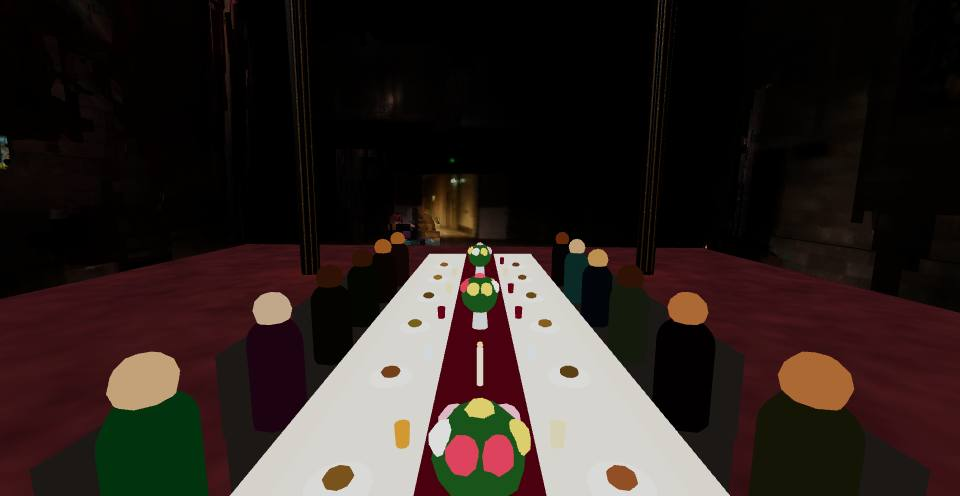
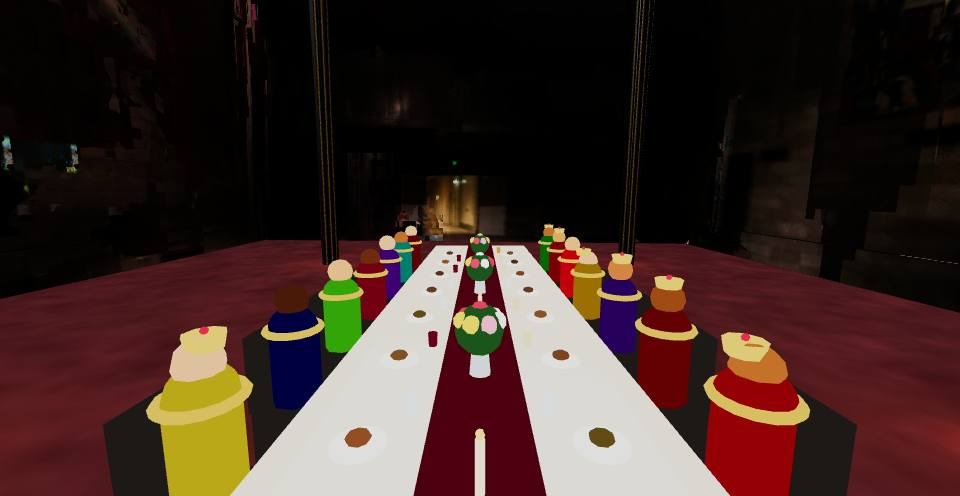
The banquet, alive (Lloyd's note, V2): a modern royal banquet, every guest in a jewel-toned gown with a gold collar and a crown on a third of them; everyone eating (the head dips to the plate and back) or chatting (leaning to a neighbour, swaying with the talk), swapping every few seconds; four wait
Claude-Session: https://claude.ai/code/session_01JupC9g6UHnowKAwqZM7atT

diff --git a/index.html b/index.html
@@ -1861,7 +1861,7 @@ function eventClearOfColumns(u,d){ return EVENT.cols.every(c=>Math.hypot(u-c[0],
 function eventPoint(u,y,d){ return EVENT.N.origin.clone().addScaledVector(EVENT.N.u,u).addScaledVector(EVENT.N.inRoom,d).setY(y); }
 function buildEvent(){
  fabSync();
- if(eventGroup){scene.remove(eventGroup); eventGroup=null;} if(confetti){scene.remove(confetti); confetti=null; confettiMat=null;} crowd=null; eventAnim=null; dinner=null; wedding=null; party=null; wheelchairs=[]; eventLitMats=[]; speaker=null; clearFx();
+ if(eventGroup){scene.remove(eventGroup); eventGroup=null;} if(confetti){scene.remove(confetti); confetti=null; confettiMat=null;} crowd=null; eventAnim=null; dinner=null; banquet=null; wedding=null; party=null; wheelchairs=[]; eventLitMats=[]; speaker=null; clearFx();
  if(!document.getElementById('event').checked){restoreEventLED(); sceneDirty=true; return;}
  eventGroup=new THREE.Group(); const y0=FLOOR_Y||EVENT.N.origin.y, uMid=EVENT.wallLen/2;
  const basis=new THREE.Matrix4().makeBasis(EVENT.N.u.clone(),new THREE.Vector3(0,1,0),EVENT.N.inRoom.clone().negate());
@@ -2105,7 +2105,7 @@ function updateWheelchairs(dt){
 // corridors between them, and every mover walks lane-to-lane on that grid (out to a lane, along
 // it, in to the destination). Waiters serve on purpose -- they walk to an empty place and put a
 // plate down, or to a finished one and pick it up.
-let dinner=null;
+let dinner=null, banquet=null;
 function nearestOf(arr,v){ let best=arr[0]; for(const x of arr)if(Math.abs(x-v)<Math.abs(best-v))best=x; return best; }
 function dinnerRoute(fu,fd,tu,td){ const nav=dinner.nav;
  const lu1=nearestOf(nav.lanesU,fu), lu2=nearestOf(nav.lanesU,tu), ld=nearestOf(nav.lanesD,(fd+td)/2);
@@ -2135,7 +2135,7 @@ function buildBanquet(ctx){
  const pm=new THREE.InstancedMesh(new THREE.CylinderGeometry(0.13,0.13,0.015,14),new THREE.MeshBasicMaterial({color:0xf2f0ea}),nG);
  const fm=new THREE.InstancedMesh(new THREE.SphereGeometry(0.06,8,6),new THREE.MeshBasicMaterial(),nG);
  const km=new THREE.InstancedMesh(new THREE.CylinderGeometry(0.035,0.03,0.1,10),new THREE.MeshBasicMaterial(),nG);
- const {bm,hm}=peopleMeshes(nG,0.55); const DRINKS=[0x6e1b28,0xe8d9a0,0xd28a2c,0xdfe8ea];
+ const {bm,hm}=peopleMeshes(nG,0.55); const DRINKS=[0x6e1b28,0xe8d9a0,0xd28a2c,0xdfe8ea]; const seatList=[];
  k=0;
  for(let s=-1;s<=1;s+=2)for(let i=0;i<per;i++){ const u=u0+0.6+i*pitch, sd=d+s*(W/2+0.45);
   // a place that would meet a column is simply not set
@@ -2144,11 +2144,34 @@ function buildBanquet(ctx){
   _cM.compose(_pV.set(sp.x,y0+0.25,sp.z),q,S1); cm.setMatrixAt(k,_cM);
   const bp=eventPoint(u,0,sd+s*0.2); _cM.compose(_pV.set(bp.x,y0+0.75,bp.z),q,S1); bk.setMatrixAt(k,_cM);
   poseBH(bm,hm,k,sp.x,sp.z,y0+0.72,y0+1.2,1,1); colourPerson(bm,hm,k,c);
+  // (Lloyd, V2) a modern royal banquet: jewel-toned gowns and dress, deep and saturated, not
+  // the muted everyday colours the other events wear
+  bm.setColorAt(k,c.setHSL(Math.random(),0.75+Math.random()*0.25,0.22+Math.random()*0.2,THREE.SRGBColorSpace));
+  seatList.push({k,x:sp.x,z:sp.z,s,ph:Math.random()*6.28,mode:Math.random()<0.5?'eat':'chat',next:2+Math.random()*5,crown:Math.random()<0.35});
   const pp=eventPoint(u,0,d+s*(W/2-0.25)); _cQ.identity(); _cM.compose(_pV.set(pp.x,y0+TOP+0.012,pp.z),_cQ,S1); pm.setMatrixAt(k,_cM);
   _cM.compose(_pV.set(pp.x,y0+TOP+0.045,pp.z),_cQ,{x:1,y:0.5,z:1}); fm.setMatrixAt(k,_cM); fm.setColorAt(k,c.setHSL(0.06+Math.random()*0.07,0.5,0.22+Math.random()*0.15,THREE.SRGBColorSpace));
   const kp=eventPoint(u+0.25,0,d+s*(W/2-0.45)); _cM.compose(_pV.set(kp.x,y0+TOP+0.06,kp.z),_cQ,S1); km.setMatrixAt(k,_cM); km.setColorAt(k,c.set(DRINKS[Math.floor(Math.random()*4)]));
   k++; }
  for(const m of [fm,km,bm,hm])m.instanceColor.needsUpdate=true;
+ // (Lloyd, V2) the finery: a gold collar on every guest, and a crown on a third of them
+ const GOLD=new THREE.MeshBasicMaterial({color:0xd9b14a});
+ const col=new THREE.InstancedMesh(new THREE.TorusGeometry(0.17,0.025,6,16),GOLD,seatList.length);
+ const crn=new THREE.InstancedMesh(new THREE.CylinderGeometry(0.09,0.075,0.07,8,1,true),new THREE.MeshBasicMaterial({color:0xe6c35c,side:THREE.DoubleSide}),seatList.length);
+ const jew=new THREE.InstancedMesh(new THREE.SphereGeometry(0.018,6,4),new THREE.MeshBasicMaterial({color:0xe03050}),seatList.length);
+ const qF=new THREE.Quaternion().setFromAxisAngle(new THREE.Vector3(1,0,0),Math.PI/2);
+ seatList.forEach((g,i)=>{ _cM.compose(_pV.set(g.x,y0+1.0,g.z),qF,S1); col.setMatrixAt(i,_cM);
+  _cQ.identity(); if(g.crown){ _cM.compose(_pV.set(g.x,y0+1.3,g.z),_cQ,S1); crn.setMatrixAt(i,_cM); _cM.compose(_pV.set(g.x,y0+1.345,g.z),_cQ,S1); jew.setMatrixAt(i,_cM); }
+  else { _cM.compose(_pV.set(0,-99,0),_cQ,TINY); crn.setMatrixAt(i,_cM); jew.setMatrixAt(i,_cM); } });
+ // (Lloyd, V2) wait staff: two a side in the lane behind the chairs, walking the table with a
+ // tray and stepping in to a place to serve, then on to the next
+ const nW=4, wt=peopleMeshes(nW,1.05), tray=new THREE.InstancedMesh(new THREE.CylinderGeometry(0.22,0.22,0.012,16),new THREE.MeshBasicMaterial({color:0xd8d8dc}),nW);
+ const cup=new THREE.InstancedMesh(new THREE.CylinderGeometry(0.03,0.025,0.09,8),new THREE.MeshBasicMaterial({color:0xe8d9a0}),nW*3);
+ const wst=[]; for(let i=0;i<nW;i++){ wt.bm.setColorAt(i,c.set(0x14141a)); wt.hm.setColorAt(i,c.set(SKIN_TONES[Math.floor(Math.random()*SKIN_TONES.length)]));
+  const s=i<2?-1:1; wst.push({s,u:u0+2+Math.random()*(L-4),dir:i%2?1:-1,spd:0.75+Math.random()*0.2,serve:0,next:2+Math.random()*4,lean:0}); }
+ wt.bm.instanceColor.needsUpdate=true; wt.hm.instanceColor.needsUpdate=true;
+ banquet={y0,d,W,u0,u1,bm,hm,seat:seatList,col,crn,jew,qF,wt,tray,cup,wst};
+ eventAnim=(dt,t)=>updateBanquet(dt,t);
+ for(const m of [col,crn,jew,wt.bm,wt.hm,tray,cup]){ m.frustumCulled=false; eventGroup.add(m); }
  // down the middle: flowers every two metres (a vase, greenery, a head of blooms), a candle between
  const nF=Math.floor(L/2), vm=new THREE.InstancedMesh(new THREE.CylinderGeometry(0.05,0.07,0.22,10),eventMat(0xcfd6dc,0xe8edf0),nF);
  const gm=new THREE.InstancedMesh(new THREE.SphereGeometry(0.16,8,6),eventMat(0x2f5a2a,0x4b7d40),nF);
@@ -2162,6 +2185,31 @@ function buildBanquet(ctx){
   const cp=eventPoint(u+1,0,d); _cM.compose(_pV.set(cp.x,y0+TOP+0.12,cp.z),_cQ,S1); cdl.setMatrixAt(i,_cM); _cM.compose(_pV.set(cp.x,y0+TOP+0.26,cp.z),_cQ,S1); fl.setMatrixAt(i,_cM); }
  bl.instanceColor.needsUpdate=true;
  for(const m of [pl,cm,bk,pm,fm,km,bm,hm,vm,gm,bl,cdl,fl]){ m.frustumCulled=false; eventGroup.add(m); }
+}
+// BANQUET, alive (Lloyd, V2): every guest is eating (the head dips to the plate and comes back,
+// again and again) or chatting (leaning to a neighbour, swaying with the talk), and swaps
+// between the two every few seconds; the collar and crown ride the body and head. The waiters
+// walk the lanes behind the chairs, turn at the ends, and every few metres step in to the table
+// for a moment to serve, the tray held out ahead of them.
+function updateBanquet(dt,t){
+ const B=banquet; if(!B)return; const y0=B.y0, S1={x:1,y:1,z:1}, R=EVENT.N.inRoom, U=EVENT.N.u;
+ B.seat.forEach((g,i)=>{ g.next-=dt; if(g.next<=0){ g.mode=g.mode==='eat'?'chat':'eat'; g.next=3+Math.random()*6; }
+  const jb=cheering(t)?0.06*Math.abs(Math.sin(t*Math.PI*2.1+g.ph)):0;
+  let dx=0, dz=0, hy=0, lean=0;
+  if(g.mode==='eat'){ const e=Math.max(0,Math.sin(t*1.4+g.ph)); dx=-R.x*g.s*0.10*e; dz=-R.z*g.s*0.10*e; hy=-0.07*e; }
+  else { const sw=Math.sin(t*0.9+g.ph); dx=U.x*0.07*sw; dz=U.z*0.07*sw; lean=0.02*Math.sin(t*1.7+g.ph); }
+  poseBH(B.bm,B.hm,g.k,g.x+dx*0.35,g.z+dz*0.35,y0+0.72+jb,y0+1.2+hy+jb+lean,1,1);
+  _cM.compose(_pV.set(g.x+dx*0.35,y0+1.0+jb,g.z+dz*0.35),B.qF,S1); B.col.setMatrixAt(i,_cM);
+  if(g.crown){ _cQ.identity(); _cM.compose(_pV.set(g.x+dx,y0+1.3+hy+jb+lean,g.z+dz),_cQ,S1); B.crn.setMatrixAt(i,_cM); _cM.compose(_pV.set(g.x+dx,y0+1.345+hy+jb+lean,g.z+dz),_cQ,S1); B.jew.setMatrixAt(i,_cM); } });
+ B.bm.instanceMatrix.needsUpdate=true; B.hm.instanceMatrix.needsUpdate=true; B.col.instanceMatrix.needsUpdate=true; B.crn.instanceMatrix.needsUpdate=true; B.jew.instanceMatrix.needsUpdate=true;
+ B.wst.forEach((w,i)=>{
+  if(w.serve>0){ w.serve-=dt; w.lean=Math.min(1,w.lean+dt*2); } else { w.lean=Math.max(0,w.lean-dt*2); w.next-=dt; if(w.next<=0){ w.serve=2.2; w.next=3+Math.random()*4; }
+   if(w.lean<=0){ w.u+=w.dir*w.spd*dt; if(w.u>B.u1-1){ w.u=B.u1-1; w.dir=-1; } if(w.u<B.u0+1){ w.u=B.u0+1; w.dir=1; } } }
+  const laneD=B.d+w.s*(B.W/2+1.75-0.55*smooth(w.lean)); const p=eventPoint(w.u,0,laneD), bob=0.02*Math.abs(Math.sin(t*6+i));
+  poseBH(B.wt.bm,B.wt.hm,i,p.x,p.z,y0+0.78+bob,y0+1.62+bob,1,1);
+  const tp=eventPoint(w.u+w.dir*0.05,0,laneD-w.s*0.32); _cQ.identity(); _cM.compose(_pV.set(tp.x,y0+1.12+bob,tp.z),_cQ,S1); B.tray.setMatrixAt(i,_cM);
+  for(let j=0;j<3;j++){ const cp=eventPoint(w.u+w.dir*0.05+(j-1)*0.09,0,laneD-w.s*(0.32+(j===1?0.06:-0.04))); _cM.compose(_pV.set(cp.x,y0+1.17+bob,cp.z),_cQ,S1); B.cup.setMatrixAt(i*3+j,_cM); } });
+ B.wt.bm.instanceMatrix.needsUpdate=true; B.wt.hm.instanceMatrix.needsUpdate=true; B.tray.instanceMatrix.needsUpdate=true; B.cup.instanceMatrix.needsUpdate=true;
 }
 function buildDinner(ctx){
  const {y0,uLo,uHi,dLo,dHi,rnd}=ctx; const c=new THREE.Color();

diff --git a/tour-storyboard.md b/tour-storyboard.md
@@ -52,7 +52,10 @@ Is brought to light
 
 (Gandel Hall on the line above) Gandel Hall should also be stained glass text effect
 
-V3 (draft):
+V3 (sent 01/09/2026 22:12:00):
+Gandel Hall text should be voronoi stained glass
+
+V4 (draft):
 
 
 ---
@@ -100,7 +103,7 @@ V3 (draft):
 ## 3. Banquet
 <!-- shot: banquet -->
 
-Duration 16 s. Event: `banquet` (one long table down the spine of the hall: draped ivory cloth in pleats, burgundy runner, gold hem, plates, food and glasses at every place, flowers and candles down the middle, guests seated both sides).
+Duration 16 s. Event: `banquet` (one long table down the spine of the hall: draped ivory cloth in pleats, burgundy runner, gold hem, plates, food and glasses at every place, flowers and candles down the middle, guests seated both sides in jewel-toned finery with gold collars, a crown on a third of them, eating and chatting; four waiters walk the lanes behind the chairs with trays and step in to serve).
 
 Fades in from black over 1.5 s. Travels slowly along the table from `(uM-18, 1.9, 7.55)` to `(uM+12, 1.9, 7.55)`, just over the guests' heads, looking along the table 7 m ahead. Fades to black over the last 1.5 s.
 
@@ -114,8 +117,17 @@ Add a new event type - Banquet.
 
 Which is a long rectangular table going down the spine of the hall long ways. Have the camera fade in, for a shot of the camera moving down the banquet table. The banquet table should have food, flowers on it and people sitting at it. Also with ornate draped tablecloth. Fade out at the end of the shot
 
-V2 (draft):
+V2 (sent 01/09/2026 22:07:39):
+[shot 3, 0.1 s] 
 
+Have everyone wearing extravagant clothing. Like a modern royal banquet. Wait staff serving food and drinks. Everybody at the table eating or chatting to each other and having a good time
+
+V3 (draft):
+Text (all centre aligned)
+
+A place where (line break)
+Rich history and modern tradition (Each word fades in one after the other) (Line break)
+Come together
 
 ---
 
